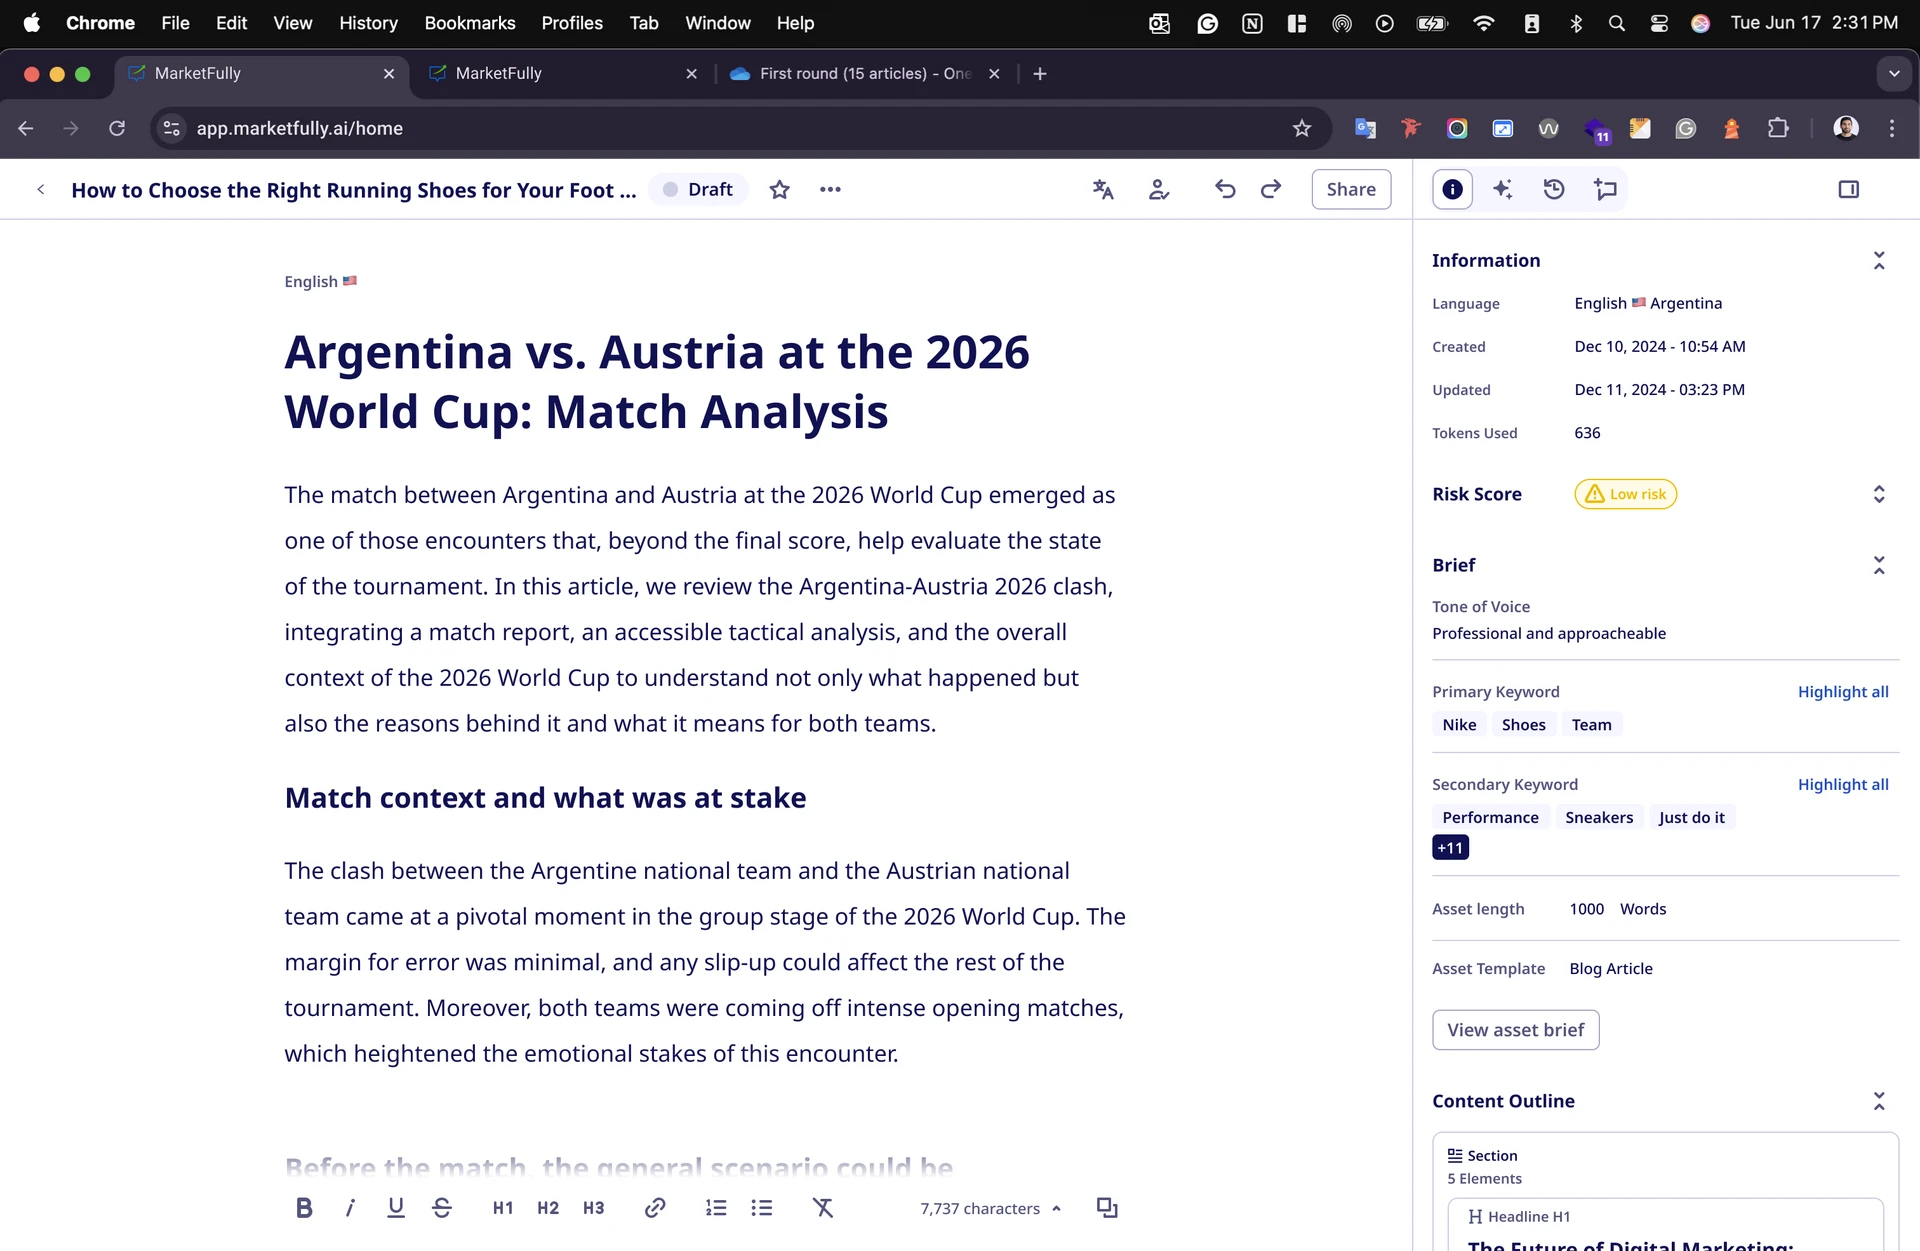
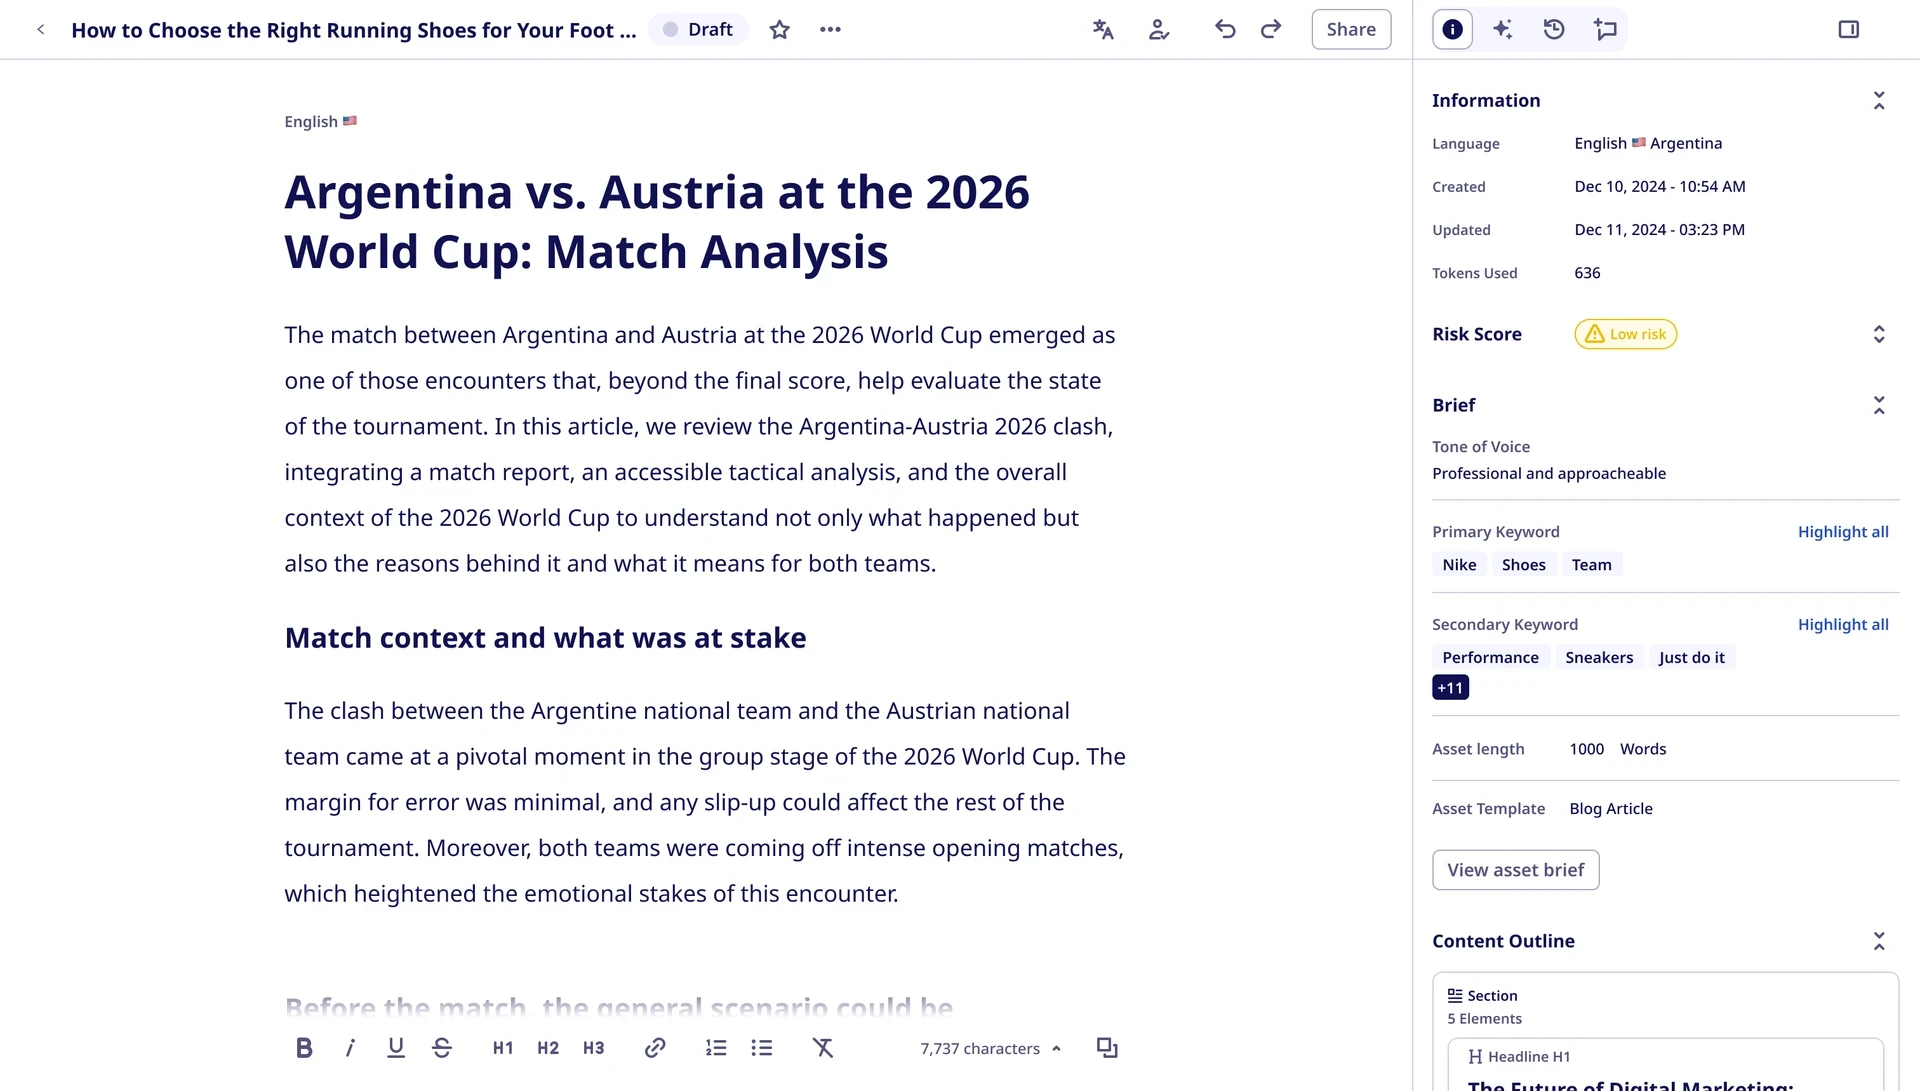
content(projects): rewrite the Marketfully case from what shipped
The case now follows the research finding, the platform, and the flows that shipped, with real screens instead of stand-ins. Prose section titles match the page title so long cases stay readable.

diff --git a/app/global.css b/app/global.css
@@ -281,19 +281,19 @@ html.dark .prose a:not(.heading-link):hover {
 }
 
 .prose h1 {
-  @apply relative text-xl font-normal leading-7 tracking-tight mt-6 mb-2;
+  @apply relative mt-6 mb-2 text-xl font-normal leading-7 tracking-tight text-black dark:text-white;
 }
 
 .prose h2 {
-  @apply relative text-lg font-normal tracking-tight mt-12 mb-3;
+  @apply relative mt-16 mb-4 text-xl font-normal leading-7 tracking-tight text-black dark:text-white;
 }
 
 .prose h3 {
-  @apply relative text-base font-normal tracking-tight mt-8 mb-2;
+  @apply relative mt-10 mb-3 text-lg font-normal tracking-tight text-neutral-900 dark:text-neutral-100;
 }
 
 .prose h4 {
-  @apply relative text-base font-normal tracking-tight mt-6 mb-2;
+  @apply relative mt-8 mb-2 text-base font-normal tracking-tight text-neutral-900 dark:text-neutral-100;
 }
 
 .prose h5,
@@ -342,7 +342,11 @@ html.dark .prose a:not(.heading-link):hover {
 }
 
 .prose p.case-label {
-  @apply mt-10 mb-3;
+  @apply mt-8 mb-0 font-mono text-xs font-normal uppercase leading-4 tracking-wider text-neutral-500 dark:text-neutral-400;
+}
+
+.prose p.case-label + .case-flows {
+  margin-top: 0.75rem;
 }
 
 pre::-webkit-scrollbar {

diff --git a/app/lib/dictionaries/en.ts b/app/lib/dictionaries/en.ts
@@ -28,10 +28,10 @@ export const en = {
   home: {
     title: 'Home',
     description:
-      'I develop products at the intersection of design, development, and business.',
+      'I build products at the intersection of design, development, and business.',
     eyebrow: 'PRODUCT DESIGNER',
     headline:
-      'I develop products at the intersection of design, development, and business.',
+      'I build products at the intersection of design, development, and business.',
     nowLabel: 'NOW',
     now: 'Exploring and building personal projects around the new possibilities of AI.',
     intro:
@@ -44,7 +44,7 @@ export const en = {
     },
     selectedWork: {
       title: 'Selected work',
-      subtitle: 'Three cases across AI, localization, and brand.',
+      subtitle: 'Projects across product strategy, design, and brand.',
       allCases: 'ALL CASES',
       cases: {
         marketfully: {

diff --git a/app/components/home-landing.tsx b/app/components/home-landing.tsx
@@ -109,7 +109,6 @@ export const HomeLanding = ({
     <div className="flex w-full flex-col">
       <section className="flex w-full flex-col gap-10">
         <div className="flex w-full flex-col gap-4">
-          <p className={sectionLabelClassName}>{copy.home.eyebrow}</p>
           <div className="flex w-full flex-col gap-8 lg:flex-row lg:gap-6">
             <h1 className="w-full max-w-[860px] shrink-0 text-[2rem] font-normal leading-[1.12] tracking-[-0.04em] text-black sm:text-4xl md:text-[3.25rem] lg:w-[860px] dark:text-white">
               {copy.home.headline}

diff --git a/app/lib/dictionaries/es.ts b/app/lib/dictionaries/es.ts
@@ -46,7 +46,7 @@ export const es: Dictionary = {
     },
     selectedWork: {
       title: 'Trabajo seleccionado',
-      subtitle: 'Tres casos entre IA, localización y marca.',
+      subtitle: 'Proyectos entre estrategia de producto, diseño y marca.',
       allCases: 'TODOS LOS CASOS',
       cases: {
         marketfully: {
